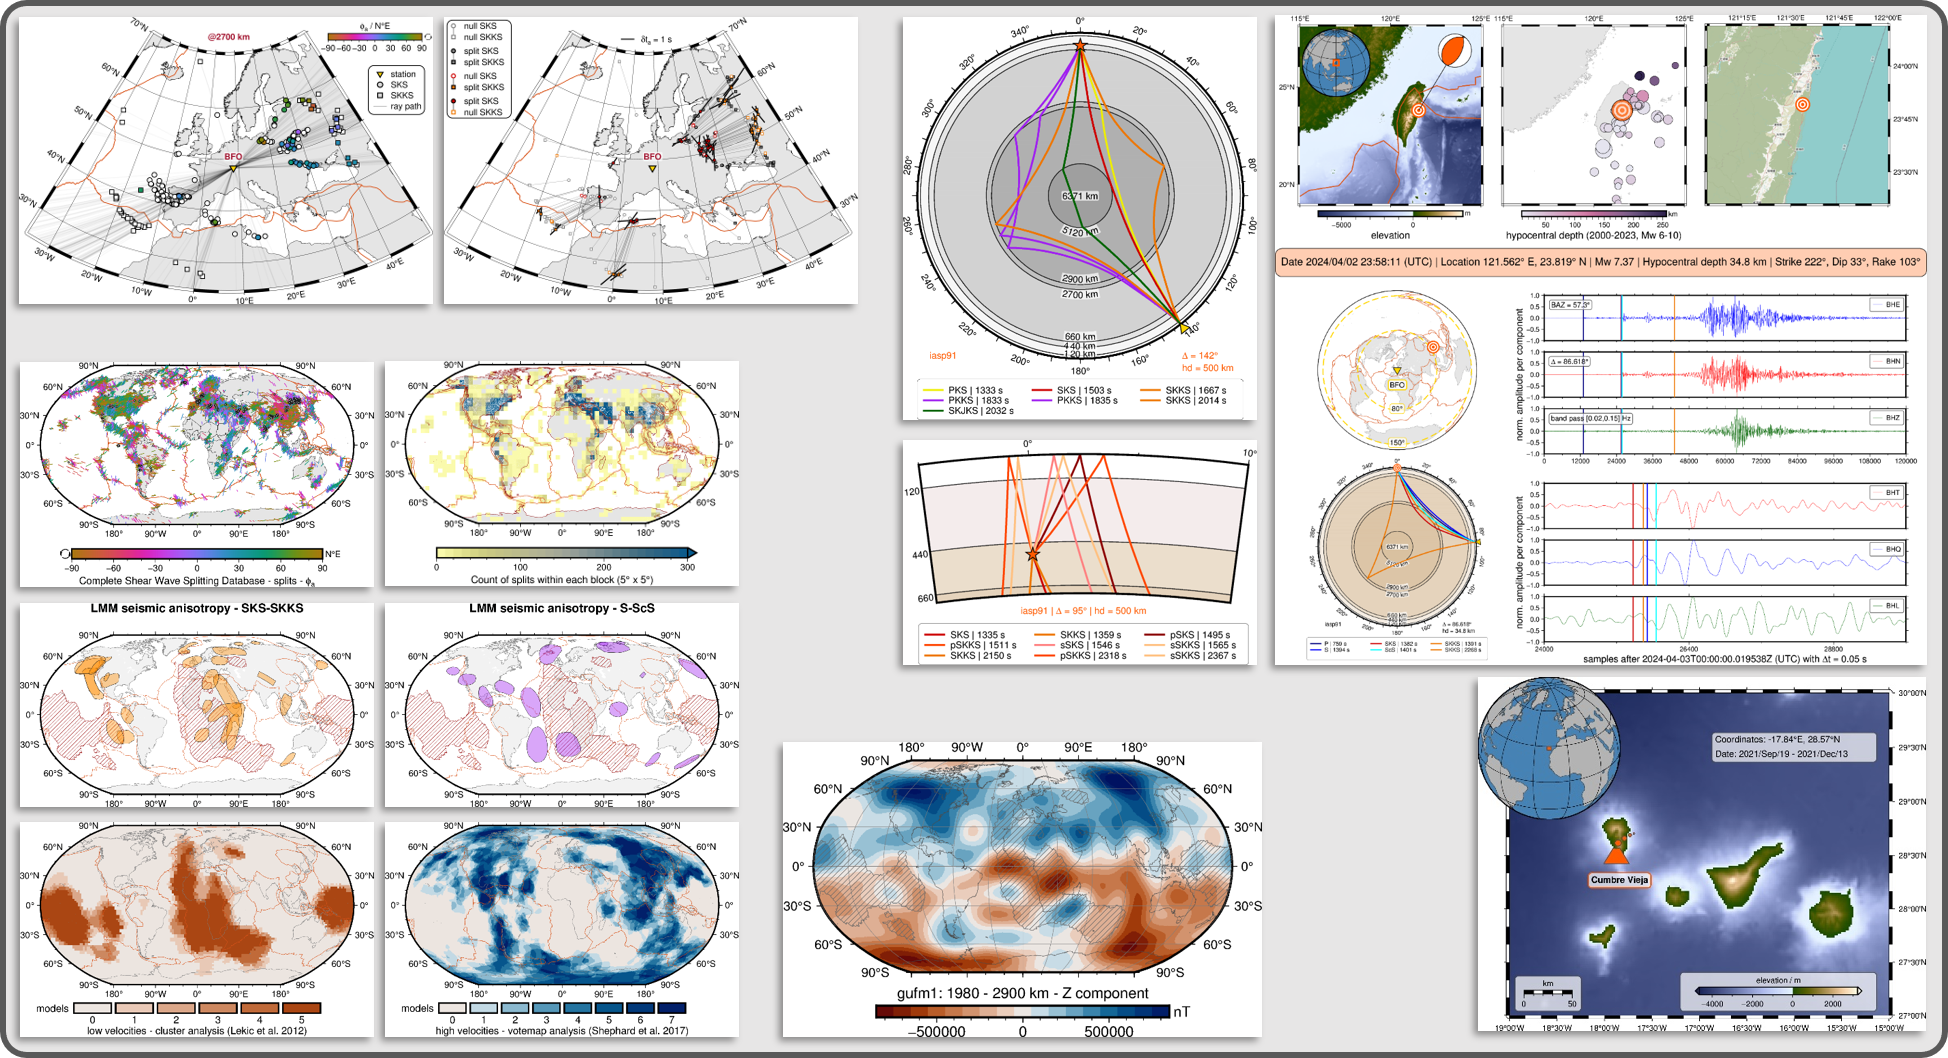
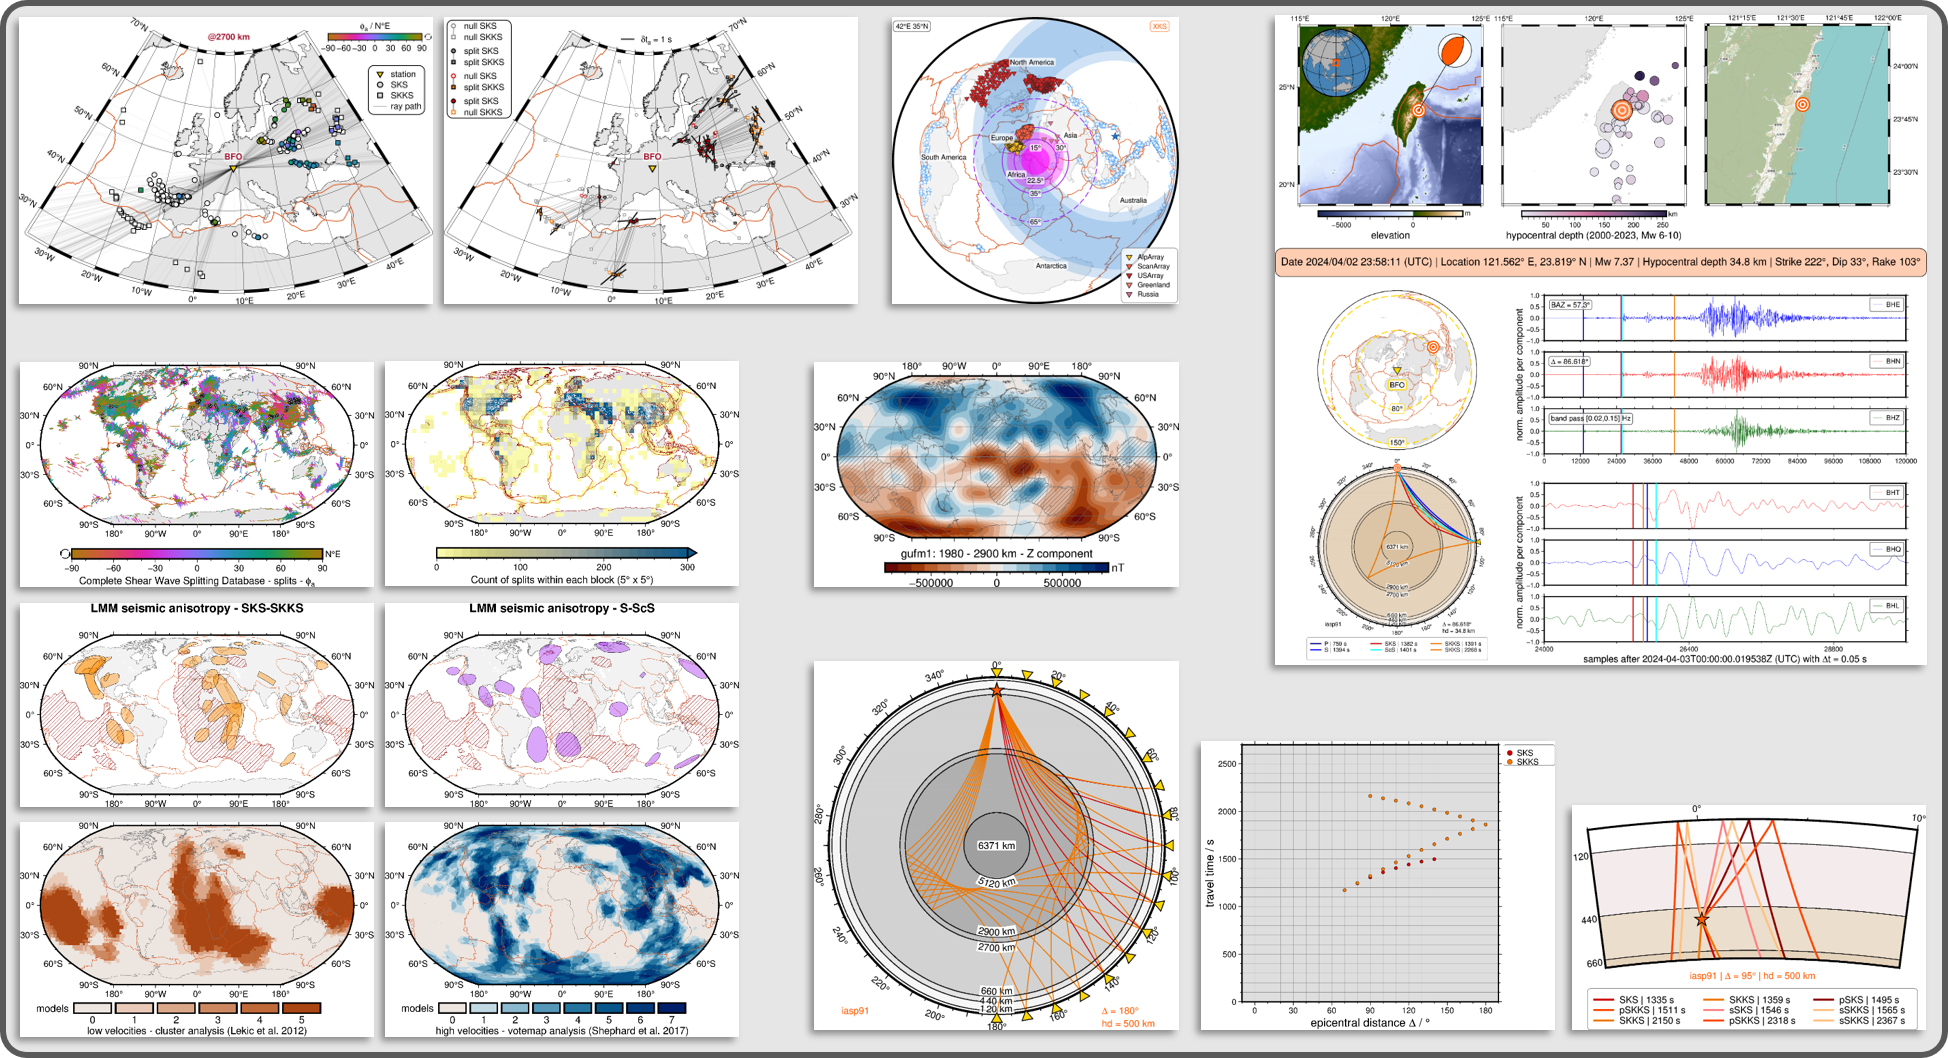
Update READMes and overview pictures

diff --git a/README.md b/README.md
@@ -36,6 +36,7 @@ If you make use of this material, please acknowledge the relating publications i
 - **[004_earthquakes_eruptions](https://github.com/yvonnefroehlich/gmt-pygmt-plotting/tree/main/004_earthquakes_eruptions)**: Maps of selected earthquakes and eruptions between 2021 and present
 - **[006_tomographies_databases](https://github.com/yvonnefroehlich/gmt-pygmt-plotting/tree/main/006_tomographies_databases)**: `shear wave splitting`, `deep anisotropy`, `votemap analysis`, `cluster analysis`
 - **[007_magnetic_field](https://github.com/yvonnefroehlich/gmt-pygmt-plotting/tree/main/007_magnetic_field)**: `gufm1`
+- **[009_deepdyn](https://github.com/yvonnefroehlich/gmt-pygmt-plotting/tree/main/009_deepdyn)**: Maps releated to the DeepDyn project
 
 ![](https://github.com/yvonnefroehlich/gmt-pygmt-plotting/raw/main/_images/github_maps_readme_main.png)
 

diff --git a/009_deepdyn/README.md b/009_deepdyn/README.md
@@ -1,0 +1,9 @@
+# 009_deepdyn
+
+## Content
+
+_Recommended versions_: PyGMT v0.13.0, GMT 6.5.0
+
+- **[01_epidistance_lmm](https://github.com/yvonnefroehlich/GMT_PyGMT_plotting/tree/main/009_deepdyn/01_epidistance_lmm)**
+
+![](https://github.com/yvonnefroehlich/gmt-pygmt-plotting/raw/main/_images/github_maps_readme_deepdynlmmepidist.png)
